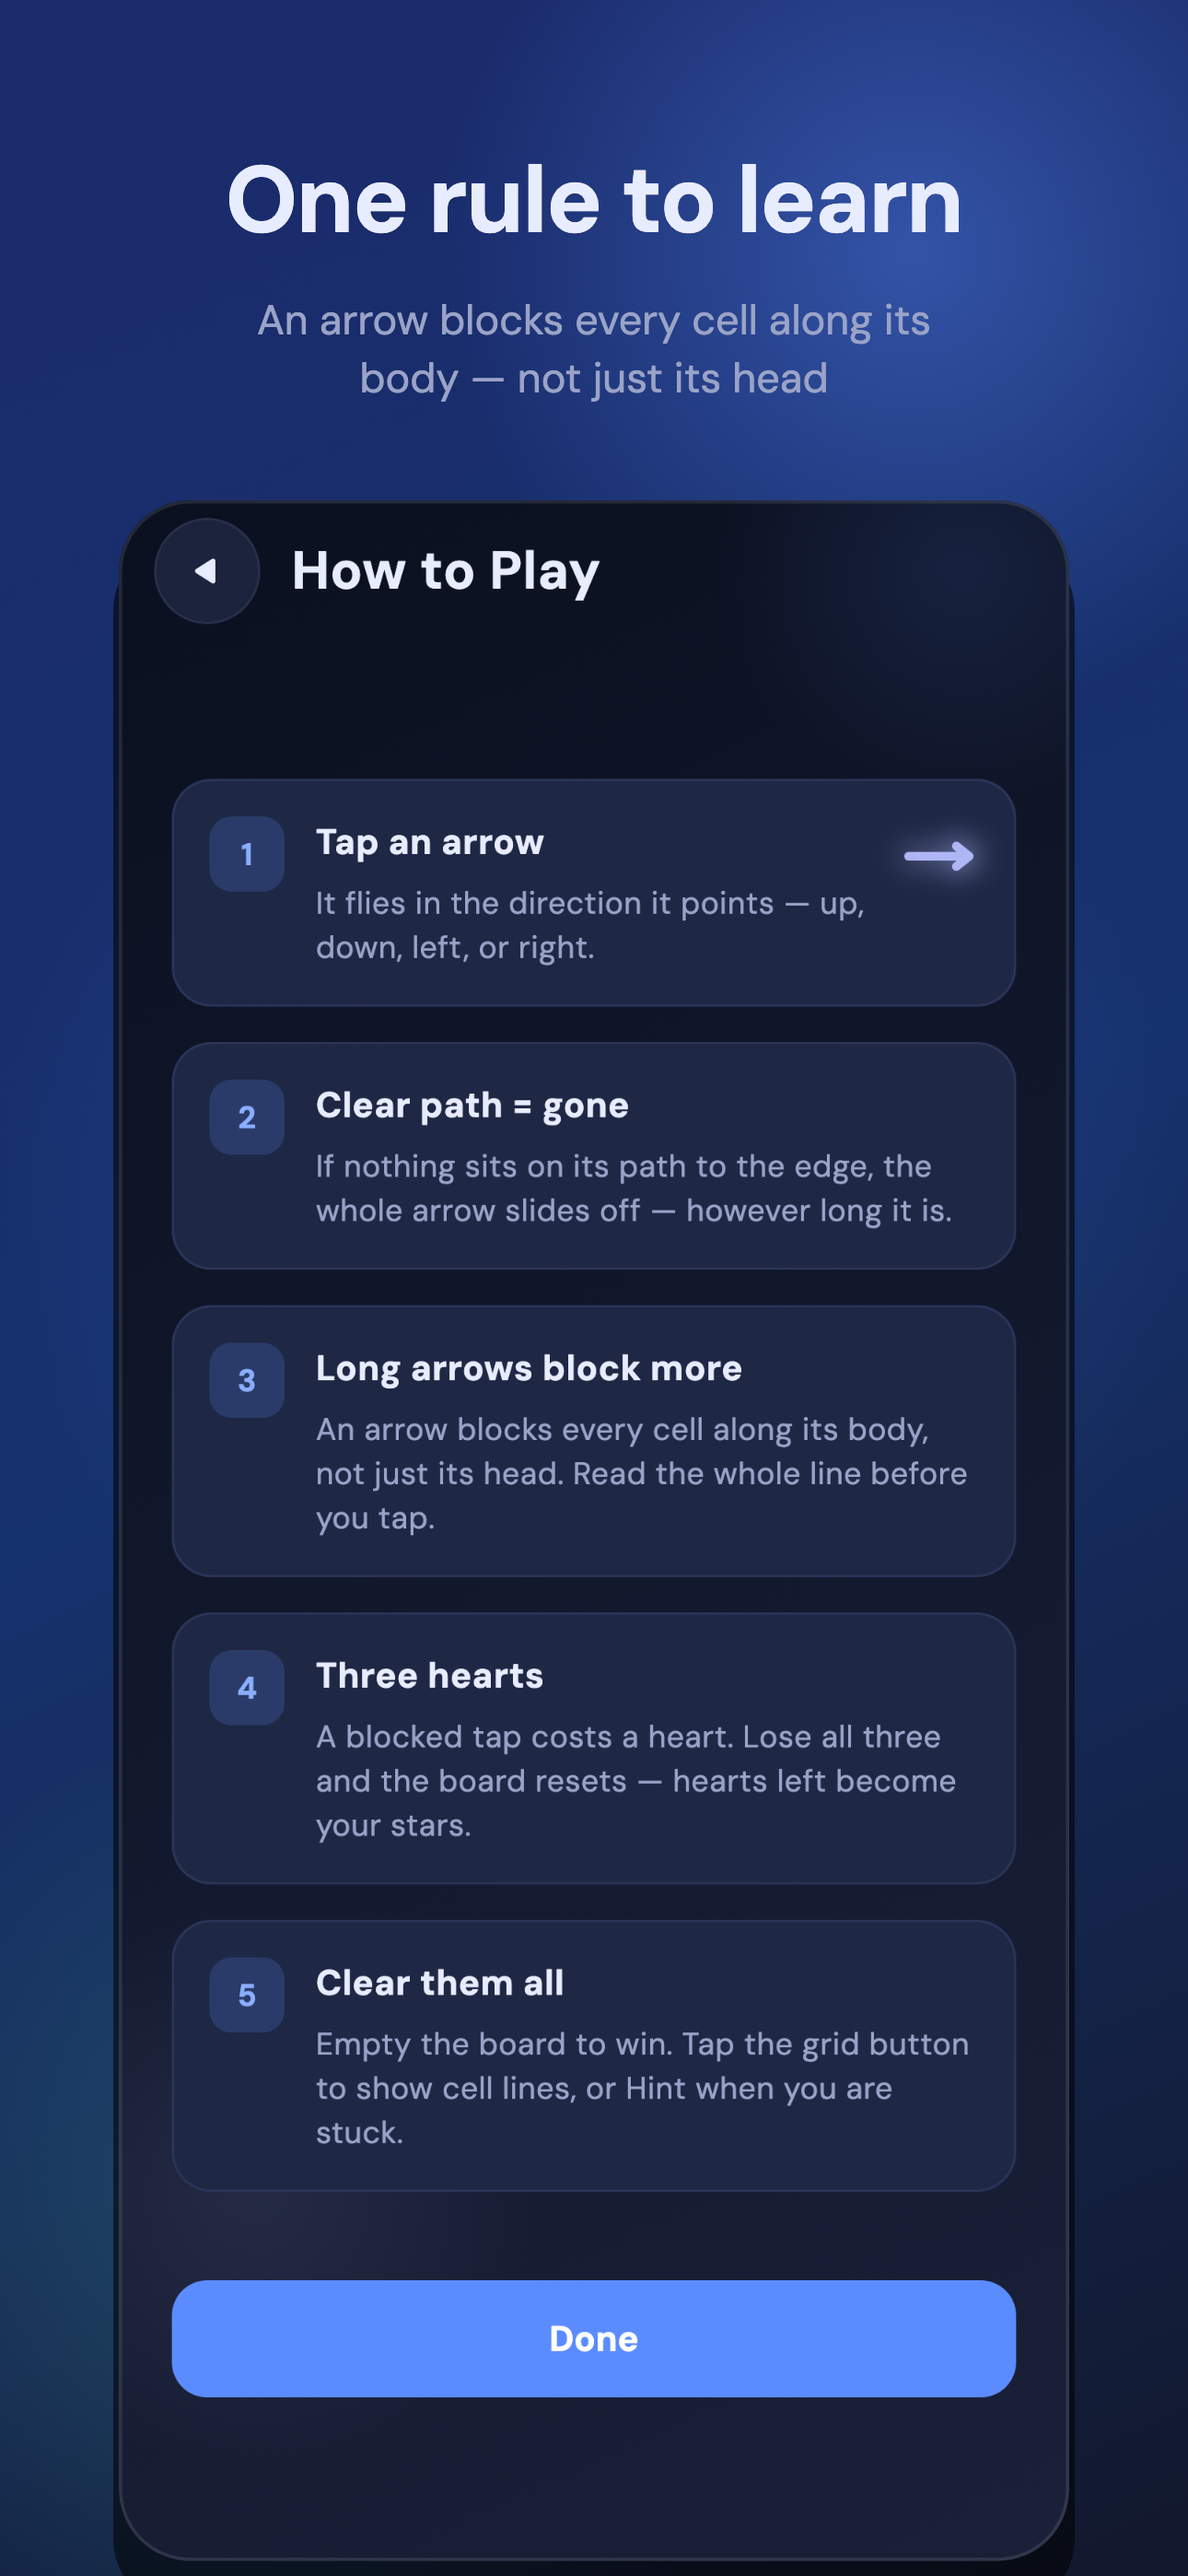
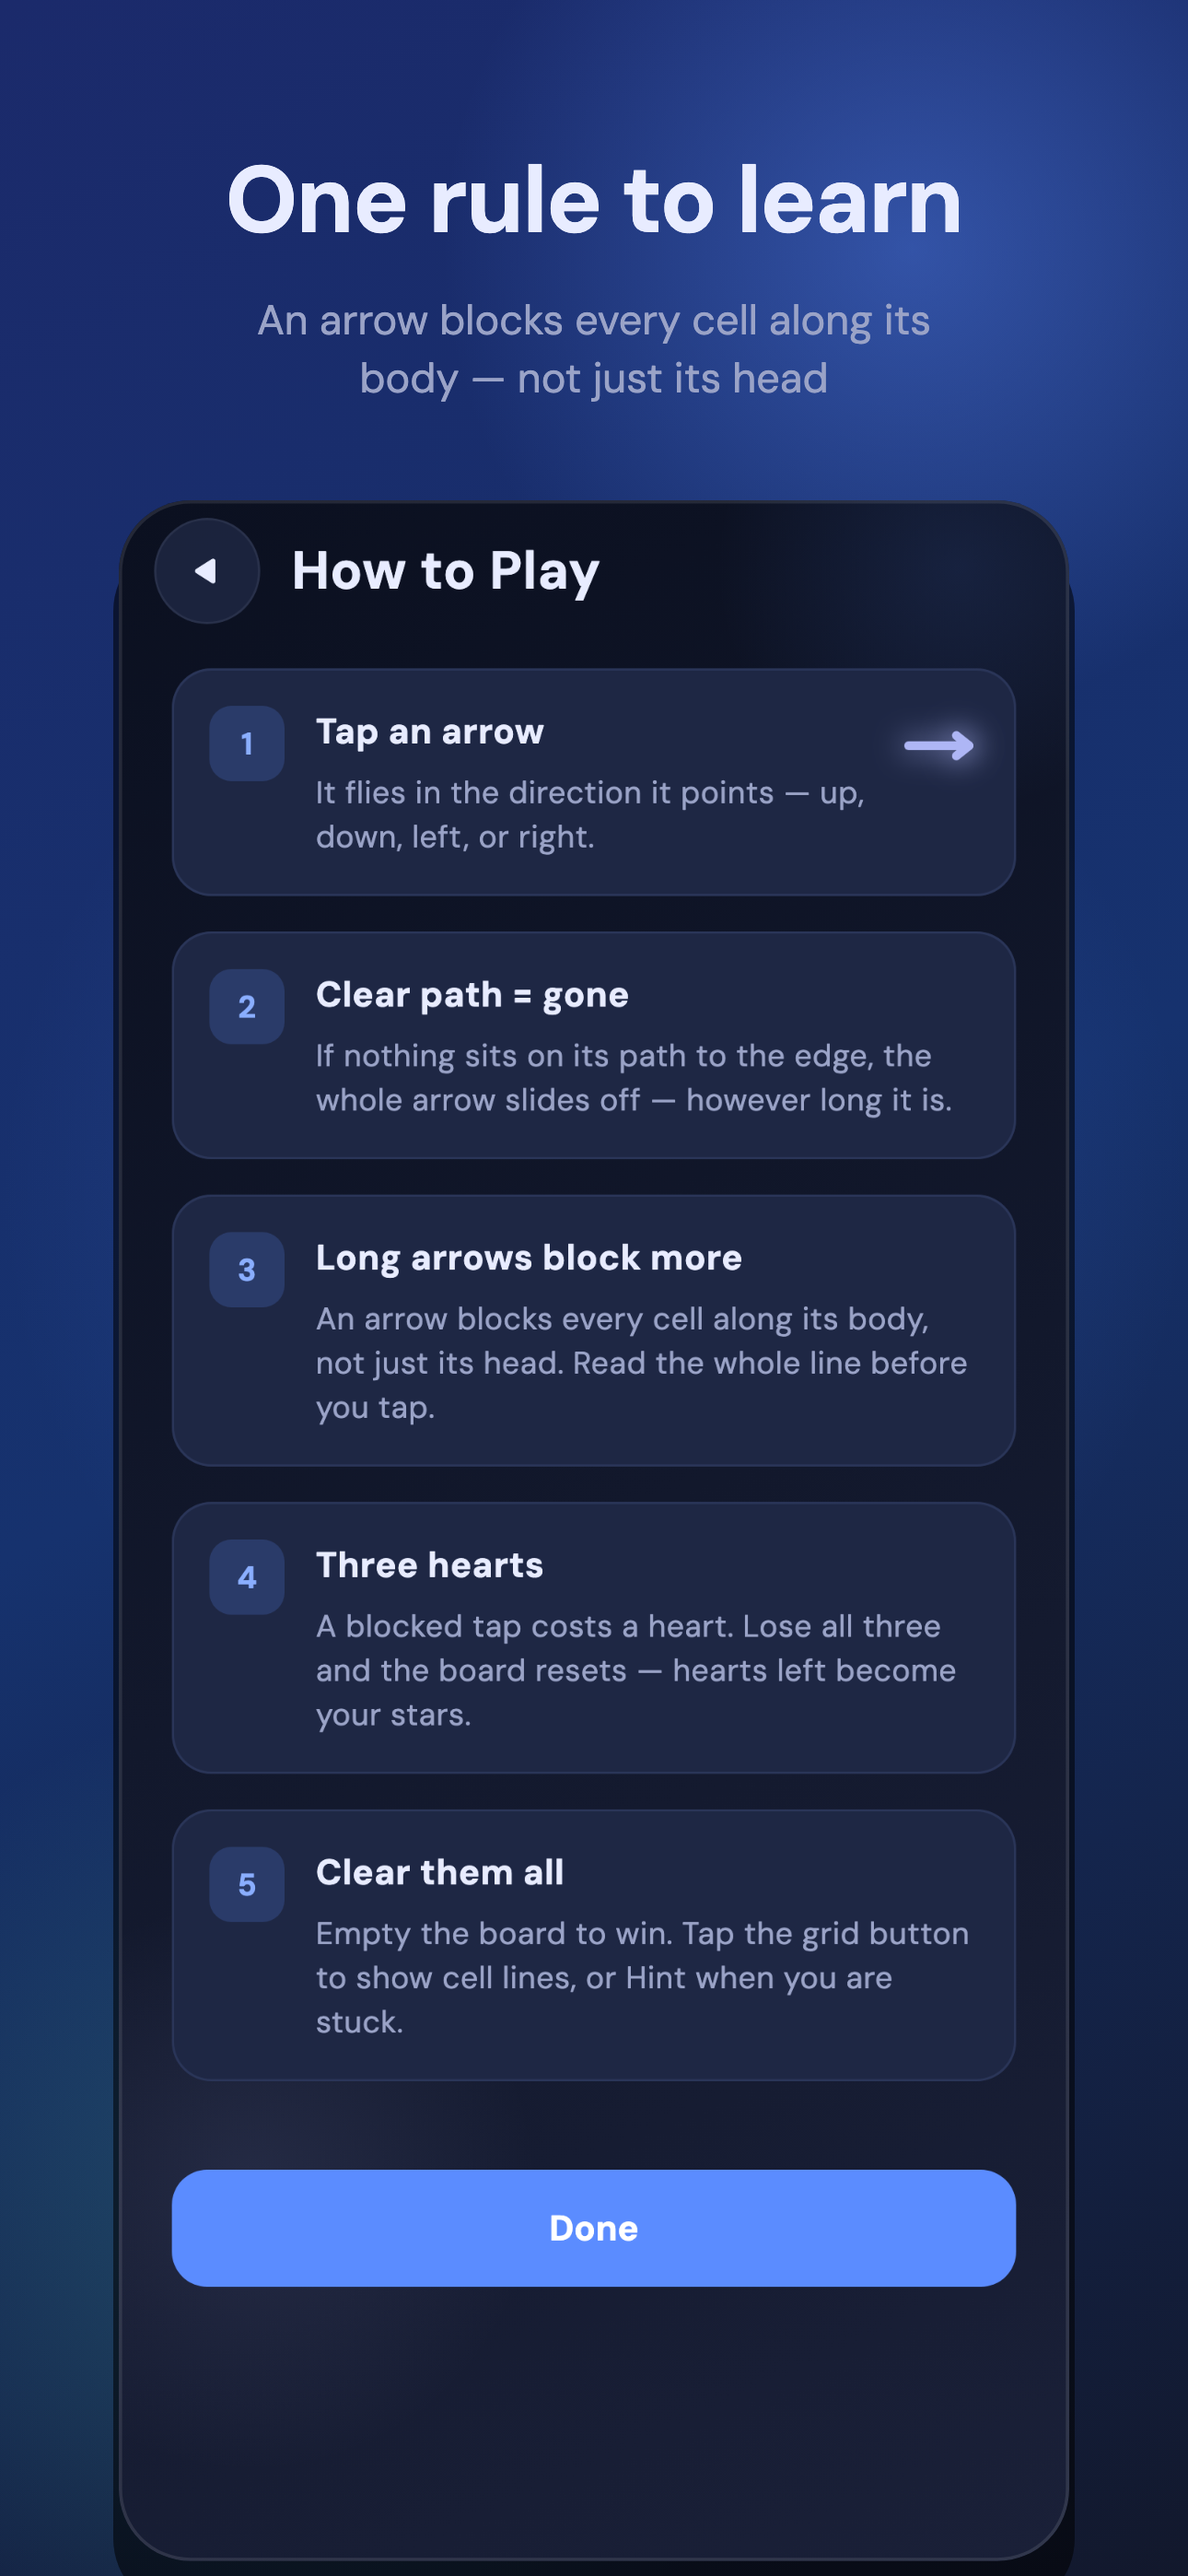
Keep the How to Play steps at the top, move only the button
Centring the block moved the steps down as well; only the button was stranded.
Hold the block to the top instead, so the steps start under the header where
they were and the leftover room falls below the button.

Changed region(s): [[0.124, 0.2489, 0.8682, 0.9335]]

diff --git a/lib/screens/how_to_play_screen.dart b/lib/screens/how_to_play_screen.dart
@@ -22,14 +22,16 @@ class HowToPlayScreen extends StatelessWidget {
                 title: 'How to Play',
                 showBack: !fromOnboarding,
               ),
-              // The steps and the button are one block, centred in whatever
-              // room is left. On a phone the block is taller than the screen,
-              // so the list scrolls and the button sits at the bottom exactly
-              // as before; on a tablet the block is shorter, and the button
-              // follows the last step instead of stranding itself an inch
-              // above the bottom edge.
+              // The steps and the button are one block, held to the top. On a
+              // phone the block is taller than the screen, so the list scrolls
+              // and the button sits at the bottom exactly as before; on a
+              // tablet the block is shorter, and the button follows the last
+              // step rather than stranding itself at the bottom edge. Any
+              // room left over falls below the button, so the steps start
+              // directly under the header on every device.
               Expanded(
-                child: Center(
+                child: Align(
+                  alignment: Alignment.topCenter,
                   child: Column(
                     mainAxisSize: MainAxisSize.min,
                     children: [
